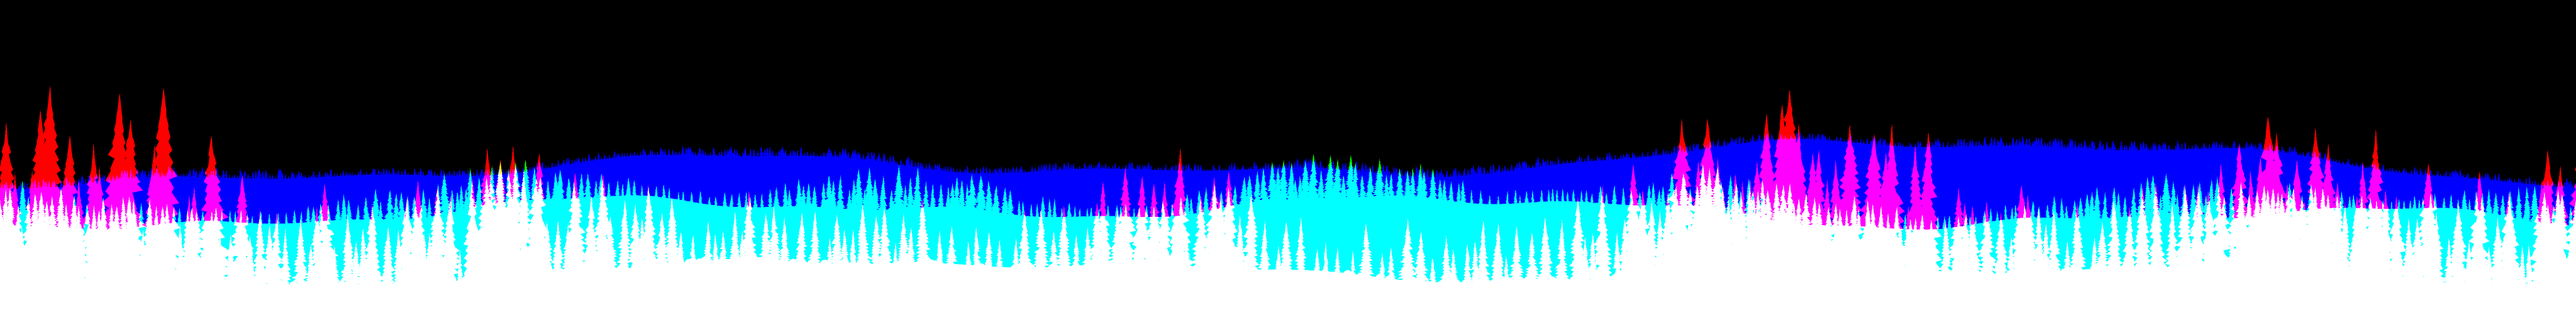
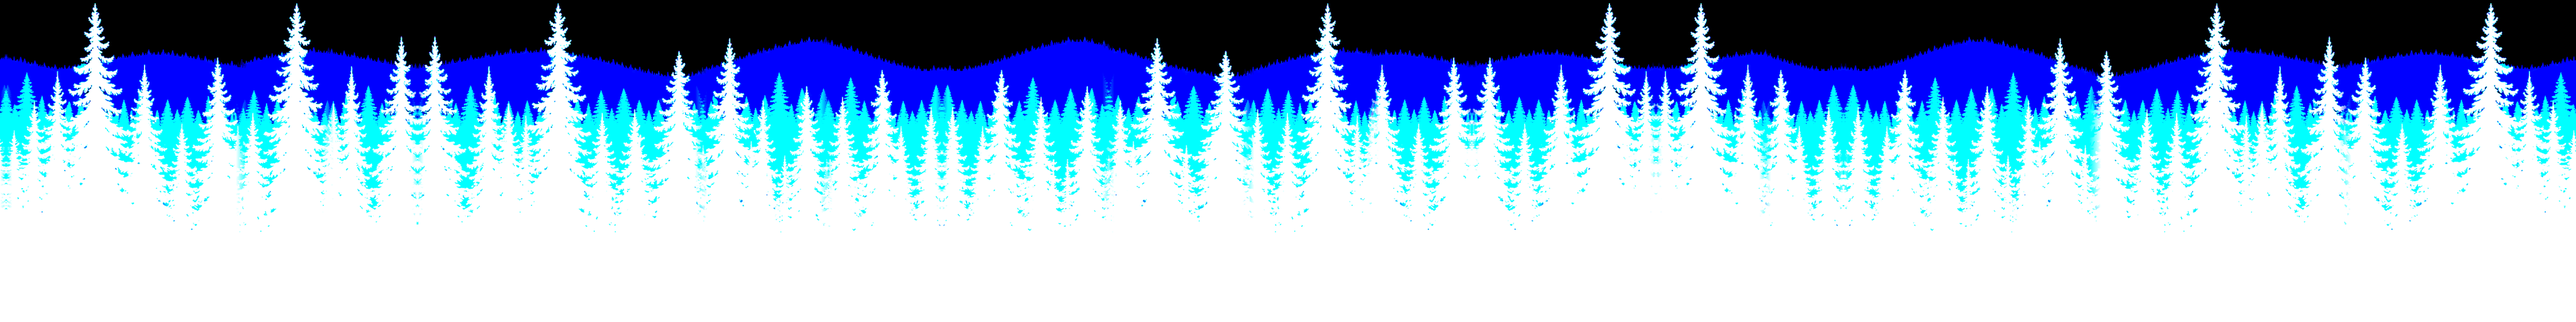
Hero: use the clinic's boreal treeline silhouette; ship the sky
- assets/img/treeline.png rebuilt from the supplied three-tone
  silhouette by tools/treeline-from-image.py: layers split by grey
  level, re-cut jointly at gaps between trees and reshuffled (flips,
  slight stretches) into a seamless 4096px strip, so trees do not
  repeat side by side
- Layers are now registered (no per-layer offsets or parallax);
  strip height follows the chart so the far ridge sits just under
  the sun's lane; mist band configurable; rim light softened
- New home social card from the hero at dawn
- README: hero sky section, tools/, updated landing description

diff --git a/assets/js/sky.js b/assets/js/sky.js
@@ -40,7 +40,7 @@
     'uniform vec4 uAmt;',   // glow, stars, mist, clouds
     'uniform vec4 uMisc;',  // rim, cloud brightness, trees ready, star rotation
     'uniform vec4 uLand;',  // horizon y, tree strip height, texture aspect, -
-    'uniform vec3 uPar;',   // parallax px: near, mid, far
+    'uniform vec4 uMist;',  // mist band in strip rows (0 = top): fade-in start/end, fade-out start/end
     'uniform vec4 uScrim;', // cx, cy, rx, ry
     'uniform sampler2D uTrees;',
     'float h12(vec2 p){vec3 q=fract(vec3(p.xyx)*.1031);q+=dot(q,q.yzx+33.33);return fract((q.x+q.y)*q.z);}',
@@ -105,22 +105,22 @@
     // treeline
     '  if(uMisc.z>.001&&q.y<uLand.y){',
     '    float tw=uLand.y*uLand.z;float ty=1.-q.y/uLand.y;',
-    '    float nearM=texture2D(uTrees,vec2((q.x+uPar.x)/tw,ty)).r;',
-    '    float midM=texture2D(uTrees,vec2((q.x+uPar.y)/tw+.37,ty)).g;',
-    '    float farM=texture2D(uTrees,vec2((q.x+uPar.z)/tw+.61,ty)).b;',
+    '    vec3 tm=texture2D(uTrees,vec2(q.x/tw,ty)).rgb;float nearM=tm.r;',
+    '    float midM=tm.g;',
+    '    float farM=tm.b;',
     '    float prox=exp(-sq((q.x-sp.x)/(H*.8)));float rimP=exp(-sq((q.x-sp.x)/(H*.32)));',
     '    vec3 farC=mix(uTreeAmb,atm,.52);',
     '    col=mix(col,farC,farM*uMisc.z);',
     '    float mn=fbm3(vec2(q.x*.0045+uT*.012,q.y*.024-uT*.004));',
-    '    float mb=smoothstep(.36,.52,ty)*(1.-smoothstep(.62,.8,ty));',
+    '    float mb=smoothstep(uMist.x,uMist.y,ty)*(1.-smoothstep(uMist.z,uMist.w,ty));',
     '    float mist=uAmt.z*mb*smoothstep(.28,.78,mn);',
     '    col=mix(col,atm*1.3+uSunCol*g*prox*.35,mist*.75*uMisc.z);',
     '    vec3 midC=mix(uTreeAmb,atm,.2);',
     '    col=mix(col,midC,midM*uMisc.z);',
     '    vec2 ts=normalize(sp-q+vec2(0.,.01));float o=1.4;',
-    '    float nearS=texture2D(uTrees,vec2((q.x+uPar.x+ts.x*o)/tw,1.-(q.y+ts.y*o)/uLand.y)).r;',
+    '    float nearS=texture2D(uTrees,vec2((q.x+ts.x*o)/tw,1.-(q.y+ts.y*o)/uLand.y)).r;',
     '    float rim=nearM*(1.-nearS);',
-    '    vec3 nearC=uTreeAmb*(1.-.35*smoothstep(.75,1.,ty))+uSunCol*rim*uMisc.x*rimP*1.1;',
+    '    vec3 nearC=uTreeAmb*(1.-.35*smoothstep(.75,1.,ty))+uSunCol*rim*uMisc.x*rimP*.6;',
     '    col=mix(col,nearC,nearM*uMisc.z);',
     '  }',
     // text scrim behind the headline
@@ -185,7 +185,7 @@
     gl.bufferData(gl.ARRAY_BUFFER, new Float32Array([-1, -1, 3, -1, -1, 3]), gl.STATIC_DRAW);
     var loc = gl.getAttribLocation(prog, 'p'); gl.enableVertexAttribArray(loc); gl.vertexAttribPointer(loc, 2, gl.FLOAT, false, 0, 0);
     var U = {};
-    ['uRes', 'uScale', 'uT', 'uZen', 'uHor', 'uSunCol', 'uTreeAmb', 'uSun', 'uMoon', 'uAmt', 'uMisc', 'uLand', 'uPar', 'uScrim', 'uTrees'].forEach(function (n) { U[n] = gl.getUniformLocation(prog, n); });
+    ['uRes', 'uScale', 'uT', 'uZen', 'uHor', 'uSunCol', 'uTreeAmb', 'uSun', 'uMoon', 'uAmt', 'uMisc', 'uLand', 'uMist', 'uScrim', 'uTrees'].forEach(function (n) { U[n] = gl.getUniformLocation(prog, n); });
 
     var treesReady = 0, treeAspect = 8, treeFade = 0;
     var tex = gl.createTexture();
@@ -213,7 +213,8 @@
 
     var W = 0, H = 0, scale = 1, maxScale = Math.min(window.devicePixelRatio || 1, 1.5);
     var hour = 7, dirty = true, visible = true, raf = 0, t0 = performance.now(), frozenT = 12.0;
-    var par = [0, 0, 0], parT = 0, scrim = [0, 0, 1, 1], slow = 0, frames = 0, ceiling = 1e9, track = 0;
+    var HZ = opts.horizon || 0.5, MIST = opts.mist || [0.36, 0.52, 0.62, 0.8];
+    var scrim = [0, 0, 1, 1], slow = 0, frames = 0, ceiling = 1e9, track = 0;
 
     function size() {
       var r = canvas.getBoundingClientRect();
@@ -241,8 +242,9 @@
 
     function path(h) {
       var s = Math.sin(2 * Math.PI * (h - 6) / 24);
-      var strip = Math.max(140, Math.min(H * 0.36, 360, W * 0.5));
-      var horizon = strip * 0.5;
+      // the strip is sized so its far ridge sits just under the sun's lane at the top of the chart
+      var strip = Math.max(120, Math.min(track ? (track - 58) / HZ : H * 0.36, 360, W * 0.62));
+      var horizon = strip * HZ;
       // the sun and moon ride a lane across the top of the chart, above the highest point of the curves
       var base = (track || strip * 0.85) - 26, up = 12, down = 10;
       var sun = Math.min(base + up * Math.max(s, 0) - down * Math.max(-s, 0), ceiling);
@@ -270,7 +272,6 @@
       var t = opts.still ? frozenT : (now - t0) / 1000;
 
       if (treesReady && treeFade < 1) treeFade = Math.min(1, treeFade + 0.04);
-      par[0] += (parT * 14 - par[0]) * 0.06; par[1] += (parT * 6 - par[1]) * 0.06; par[2] += (parT * 2.2 - par[2]) * 0.06;
 
       gl.uniform2f(U.uRes, W, H); gl.uniform1f(U.uScale, scale); gl.uniform1f(U.uT, t);
       gl.uniform3fv(U.uZen, pal[0]); gl.uniform3fv(U.uHor, pal[1]);
@@ -280,7 +281,7 @@
       gl.uniform4f(U.uAmt, glow, starsA, mist, 0.75);
       gl.uniform4f(U.uMisc, rim, cloudK, treesReady * treeFade, h * 15 * Math.PI / 180 * 0.3);
       gl.uniform4f(U.uLand, horizon, strip, treeAspect, 0);
-      gl.uniform3f(U.uPar, par[0], par[1], par[2]);
+      gl.uniform4f(U.uMist, MIST[0], MIST[1], MIST[2], MIST[3]);
       gl.uniform4f(U.uScrim, scrim[0], scrim[1], scrim[2], scrim[3]);
       gl.drawArrays(gl.TRIANGLES, 0, 3);
     }
@@ -291,7 +292,7 @@
       if (!visible || document.hidden) return;
       var dt = now - last;
       var animating = !opts.still;
-      if (dirty || (animating && dt > 30) || Math.abs(parT * 14 - par[0]) > 0.05 || (treesReady && treeFade < 1)) {
+      if (dirty || (animating && dt > 30) || (treesReady && treeFade < 1)) {
         var a = performance.now();
         draw(now); dirty = false; last = now;
         // adaptive resolution: drop to 1x, then 0.75x, if frames run long
@@ -313,7 +314,6 @@
     return {
       set: function (h) { if (h !== hour) { hour = h; dirty = true; if (opts.still) now(); kick(); } },
       body: function (h) { var P = path(h); return P.s >= -0.01 ? { y: P.sun, sun: true } : { y: P.moon, sun: false }; },
-      parallax: function (x) { parT = Math.max(-1, Math.min(1, x)); kick(); },
       resize: function () { size(); kick(); }
     };
   }

diff --git a/index.html b/index.html
@@ -467,7 +467,7 @@
   $('hMl').setAttribute('d', mD); $('hMf').setAttribute('d', mD + ' L' + W + ' ' + BASE + ' L0 ' + BASE + ' Z');
 
   var dh = $('dh'), chart = $('dhChart');
-  var skyR = window.HXSky ? window.HXSky($('skyCanvas'), { trees: 'assets/img/treeline.png', still: HX.reduce, scrim: document.querySelector('.dh-copy'), avoid: [document.querySelector('.dh-copy'), document.querySelector('.dh-read')], chart: chart, onLost: function () { dh.classList.remove('gl'); } }) : null;
+  var skyR = window.HXSky ? window.HXSky($('skyCanvas'), { trees: 'assets/img/treeline.png', horizon: 0.82, mist: [0.2, 0.3, 0.42, 0.56], still: HX.reduce, scrim: document.querySelector('.dh-copy'), avoid: [document.querySelector('.dh-copy'), document.querySelector('.dh-read')], chart: chart, onLost: function () { dh.classList.remove('gl'); } }) : null;
   if (skyR) {
     dh.classList.add('gl');
     var relayout = function () { skyR.resize(); render(hour); };
@@ -531,7 +531,6 @@
     render(hour); resumeAt = performance.now() + 5000;
   });
   window.addEventListener('resize', function () { render(hour); });
-  if (skyR && !HX.touch) dh.addEventListener('pointermove', function (e) { skyR.parallax(e.clientX / window.innerWidth * 2 - 1); });
   render(hour);
   if (HX.reduce) return;
   new IntersectionObserver(function (es) { visible = es[0].isIntersecting; }).observe(dh);

diff --git a/tools/treeline-from-image.py b/tools/treeline-from-image.py
@@ -1,0 +1,109 @@
+"""Turn a three-tone treeline silhouette (black near / mid grey / light grey far on white)
+into the hero's packed texture: 4096x512 RGB, R = near, G = mid, B = far, seamless.
+
+Each layer is extracted from its grey level, then re-cut at valleys between trees and
+reshuffled (with flips and slight stretches) into a strip about three source widths long,
+so the same trees do not line up side by side on screen."""
+import sys, random
+import numpy as np
+from PIL import Image
+
+src, out = sys.argv[1], sys.argv[2]
+TW, TH = 4096, 512
+rng = random.Random(11)
+
+g = np.asarray(Image.open(src).convert('L')).astype(np.float32)
+H0, W0 = g.shape
+ramp = lambda x, a, b: np.clip((a - x) / (a - b), 0, 1)  # 1 at <= b, 0 at >= a
+near = ramp(g, 100, 22)
+mid = ramp(g, 186, 150)
+far = ramp(g, 248, 206)
+
+# trim image edges (generators leave soft borders) and crop to the treeline
+m = 6
+near, mid, far = near[:, m:-m], mid[:, m:-m], far[:, m:-m]
+rows = np.where((far > 0.5).any(axis=1))[0]
+top = max(0, rows[0] - 6)
+near, mid, far = near[top:], mid[top:], far[top:]
+Hc, Wc = near.shape
+scale = TH / Hc
+target = int(round(TW / scale))
+
+def profile(mask):
+    filled = mask > 0.5
+    h = np.where(filled.any(axis=0), filled.argmax(axis=0), Hc).astype(np.float32)
+    return h
+
+def valleys(h, k, step=1):
+    c = []
+    for x in range(k, len(h) - k, step):
+        if h[x] >= h[x - k:x + k + 1].max() - 0.5:
+            c.append(x)
+    return c
+
+def synth(stack, k, lo, hi, tol):
+    """stack: 3 x Hc x Wc masks (near, mid, far), cut jointly so the layers stay registered."""
+    hn, hm, hf = profile(stack[0]), profile(stack[1]), profile(stack[2])
+    deep = np.percentile(hn, 60)
+    cand = [x for x in valleys(hn, k) if hn[x] >= deep]
+    H3 = {x: np.array([hn[x], hm[x], hf[x]]) for x in cand}
+    pairs = []
+    for s0 in cand:
+        for e0 in cand:
+            if lo <= e0 - s0 <= hi:
+                pairs.append((s0, e0, False, H3[s0], H3[e0]))
+                pairs.append((s0, e0, True, H3[e0], H3[s0]))
+    tolv = np.array(tol, dtype=np.float32)
+    def fits(h0, h1, k=1.0): return (np.abs(h0 - h1) <= tolv * k).all()
+    use = np.zeros(Wc)
+    segs, total = [], 0
+    first = None
+    while total < target:
+        prev = segs[-1][4] if segs else None
+        closing = target - total < hi * 1.1
+        opts = [pp for pp in pairs if (prev is None or fits(pp[3], prev)) and (not closing or fits(pp[4], first, 1.4))]
+        if not opts:
+            opts = [pp for pp in pairs if prev is None or fits(pp[3], prev, 1.8)]
+        # prefer stretches of the source used least so far
+        opts.sort(key=lambda pp: use[pp[0]:pp[1]].mean() + rng.random() * 0.8)
+        a0, b0, flip, hs, he = opts[0]
+        use[a0:b0] += 1
+        stretch = rng.uniform(0.92, 1.1)
+        segs.append((a0, b0, flip, stretch, he))
+        if first is None:
+            first = hs
+        total += int((b0 - a0) * stretch)
+    guard = len(pairs)
+    chans = []
+    for L in range(3):
+        cols = []
+        for a, b, flip, stretch, _ in segs:
+            piece = stack[L][:, a:b]
+            if flip:
+                piece = piece[:, ::-1]
+            w = max(4, int(piece.shape[1] * stretch))
+            piece = np.asarray(Image.fromarray((piece * 255).astype(np.uint8)).resize((w, Hc), Image.LANCZOS)).astype(np.float32) / 255
+            cols.append(piece)
+        X = 22
+        strip = cols[0]
+        for pc in cols[1:]:
+            t = np.linspace(0, 1, X)[None, :]
+            strip = np.concatenate([strip[:, :-X], strip[:, -X:] * (1 - t) + pc[:, :X] * t, pc[:, X:]], axis=1)
+        t = np.linspace(0, 1, X)[None, :]
+        strip = np.concatenate([strip[:, -X:] * (1 - t) + strip[:, :X] * t, strip[:, X:-X]], axis=1)
+        chans.append(Image.fromarray((np.clip(strip, 0, 1) * 255).astype(np.uint8)).resize((TW, TH), Image.LANCZOS))
+    return chans, len(segs), guard
+
+(R, G, B), n, tries = synth(np.stack([near, mid, far]), 7, 160, 560, (12, 16, 9))
+Image.merge('RGB', (R, G, B)).save(out, optimize=True)
+print('segments', n, 'tries', tries)
+
+prev = Image.new('RGB', (TW, TH), (46, 58, 80))
+for msk, col in ((B, (92, 104, 118)), (G, (46, 58, 66)), (R, (10, 15, 14))):
+    prev.paste(Image.new('RGB', (TW, TH), col), (0, 0), msk)
+prev.resize((2048, 256), Image.LANCZOS).save(out.replace('.png', '-preview.jpg'), quality=88)
+
+far_top = np.median(profile(far)) / Hc
+mid_top = np.median(profile(mid)) / Hc
+near_ground = np.percentile(profile(near), 90) / Hc
+print('far top %.3f  mid top %.3f  near valleys %.3f' % (far_top, mid_top, near_ground))

diff --git a/README.md b/README.md
@@ -32,7 +32,7 @@ Presentation clickers send PageUp/PageDown, so they work out of the box. Links s
 | 07 | Sleep, cortisol and the hormone web | Twelve connections grouped into five steps (sleep, melatonin, insulin resistance, sex hormones, mood), ending on sleep's reach. |
 | 08 | The pyramid of interventions | The pyramid builds itself one layer per step, from sleep at the base to supplements at the top. |
 
-The **landing page** opens on a full-bleed, scrubbable illustrative 24-hour rhythm: move across the chart to watch cortisol and melatonin trade places as the sky glow shifts with the time of day. Below it are a bento grid of chapter previews, a "For the exam room" section and a closing call to action.
+The **landing page** opens on a scrubbable illustrative 24-hour rhythm set in a real-time sky over a boreal treeline. Move across the chart and the day moves with it: dawn mist and a low amber sun, a clear blue-teal midday, a coral sunset, then a navy night with stars and the moon. The sun or moon is the head of the scrub cursor. Below the hero are a bento grid of chapter previews, a "For the exam room" section and a closing call to action.
 
 ## Reader aids
 
@@ -54,8 +54,10 @@ index.html                    Landing: scrubbable day hero, series bento, exam-r
 assets/css/site.css           Design system: tokens, nav, story/stage layout, Present mode, motion
 assets/js/site.js             Shared engine (see below)
 assets/js/glossary.js         Plain-language definitions used by the inline glossary
+assets/js/sky.js              Landing hero sky (WebGL): palette by hour, sun/moon, stars, clouds, relit treeline
 assets/og/                    1200×630 social preview images
-assets/img/                   Optimal wordmarks, symbol, canopy photography
+assets/img/                   Optimal wordmarks, symbol, chapter covers, treeline texture, canopy photography
+tools/                        treeline-from-image.py rebuilds assets/img/treeline.png from a three-tone silhouette
 .github/workflows/deploy.yml  GitHub Pages deployment
 ```
 
@@ -68,6 +70,14 @@ assets/img/                   Optimal wordmarks, symbol, canopy photography
 - **Helpers.** `HX.morph()` (SVG path tweening), `HX.tween()`, `HX.sampler()` (y at x along a path) and `HX.onReveal()`.
 - **URL flags.** `?step=N` opens a chapter at step N. `?still` disables all motion, which is useful for screenshots and for checking final states.
 - **Accessibility.** Reduced-motion support, keyboard access for every control, ARIA states, and live regions on readouts.
+
+### Hero sky (`sky.js`)
+
+- One full-screen fragment shader. Sky colours are keyframed by clock hour and interpolated in OKLab; the sun's colour comes from air mass, so it reddens near the horizon.
+- The treeline texture packs three registered silhouette layers (R near, G mid, B far). The far ridge takes the sky's haze, dawn mist sits between ridges, and the low sun rim-lights the near tree tops.
+- Stars rotate slowly with the hour, twinkle and fade with daylight. Clouds are thin wind-stretched streaks, underlit near the sun.
+- Resolution adapts to frame cost; rendering pauses off-screen and in hidden tabs. `?still` or reduced motion renders a single frame. Without WebGL the hero falls back to a CSS glow.
+- `?h=HH` pins the hour (useful with `?still` for screenshots). To swap the treeline, generate a black / mid-grey / light-grey silhouette on white and run `python3 tools/treeline-from-image.py source.webp assets/img/treeline.png`.
 
 ### Design system
 
